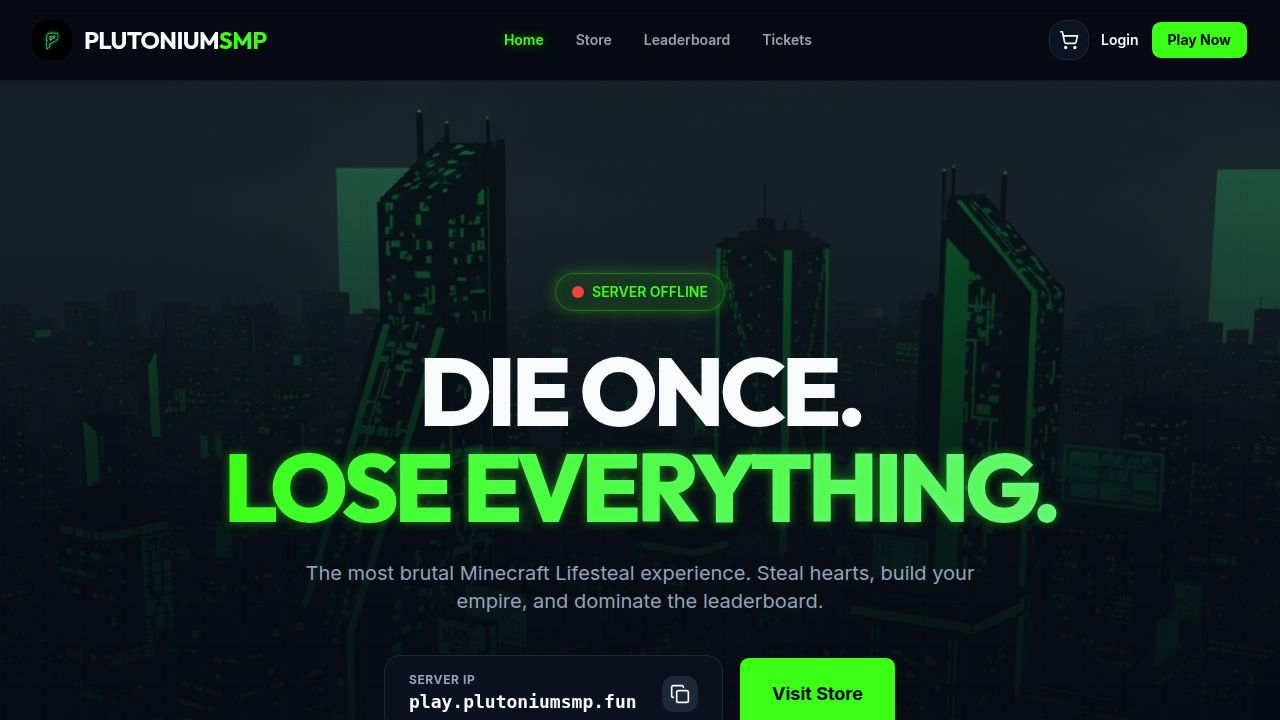
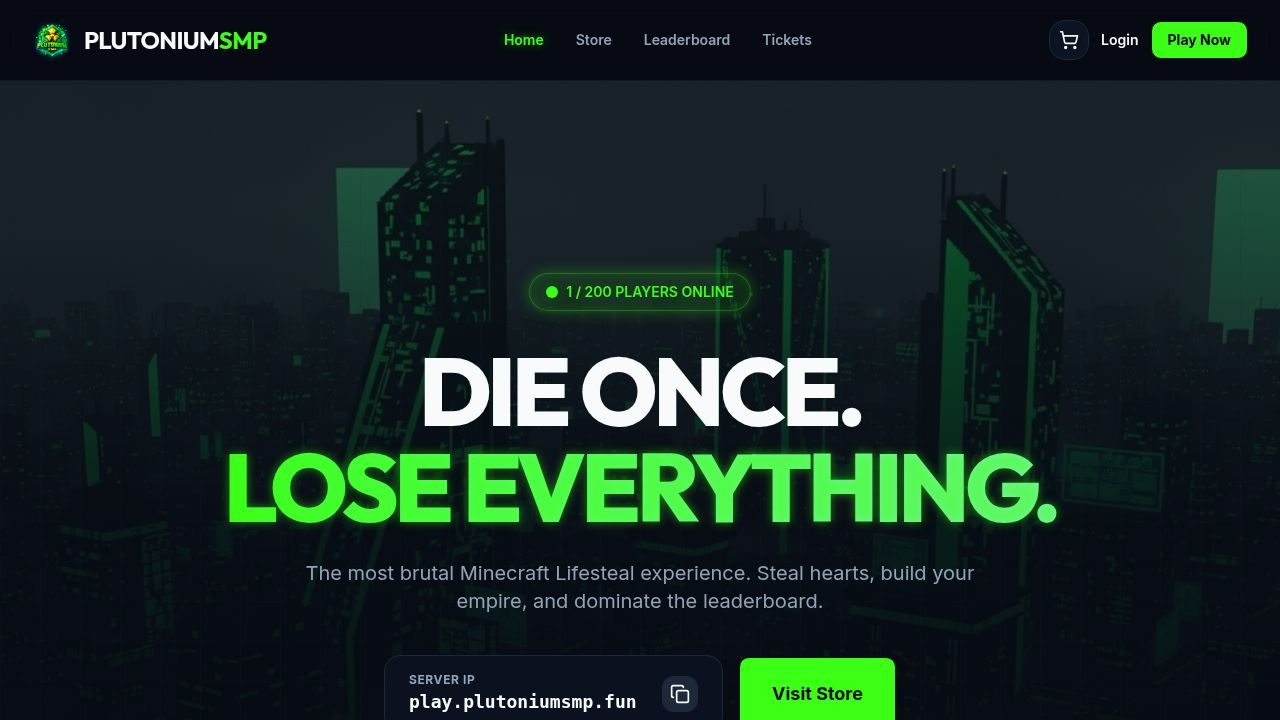
Add currency adjustment page and route for admins
Add `/admin/currency` route, integrate it into AdminLayout, and rewrite the AdminCurrency page to include user search, balance display, and adjustment functionality with audit trails.

Replit-Commit-Author: Agent
Replit-Commit-Session-Id: 015a0264-3c03-4c79-bc77-6b9e530fd9d2
Replit-Commit-Checkpoint-Type: full_checkpoint
Replit-Commit-Event-Id: 8c7f2d59-b31d-4fd6-961a-d6056bf425fc
Replit-Commit-Screenshot-Url: https://storage.googleapis.com/screenshot-production-us-central1/ad520857-e4b7-4b39-aedf-dcc1509203d8/015a0264-3c03-4c79-bc77-6b9e530fd9d2/bA10Y2w
Replit-Helium-Checkpoint-Created: true

Changed region(s): [[0.4062, 0.3667, 0.5938, 0.4583], [0.0, 0.0306, 0.0625, 0.0917]]

diff --git a/artifacts/plutonium-smp/src/pages/admin/currency.tsx b/artifacts/plutonium-smp/src/pages/admin/currency.tsx
@@ -1,44 +1,245 @@
 import { useState } from "react";
-import { useAdminAdjustCurrency } from "@workspace/api-client-react";
+import { useAdminGetUsers } from "@workspace/api-client-react";
 import { Button } from "@/components/ui/button";
 import { Input } from "@/components/ui/input";
-import { Card, CardContent, CardHeader, CardTitle } from "@/components/ui/card";
+import { Label } from "@/components/ui/label";
+import { Textarea } from "@/components/ui/textarea";
+import { Card, CardContent, CardHeader, CardTitle, CardDescription } from "@/components/ui/card";
+import { Avatar, AvatarFallback, AvatarImage } from "@/components/ui/avatar";
+import { Badge } from "@/components/ui/badge";
 import { useToast } from "@/hooks/use-toast";
+import { Search, Coins, Plus, Minus, User, CheckCircle } from "lucide-react";
 
 export default function AdminCurrency() {
-  const { mutate, isPending } = useAdminAdjustCurrency();
   const { toast } = useToast();
-  const [userId, setUserId] = useState("");
+  const [search, setSearch] = useState("");
+  const [selectedUser, setSelectedUser] = useState<any>(null);
   const [amount, setAmount] = useState("");
+  const [reason, setReason] = useState("");
+  const [loading, setLoading] = useState(false);
+  const [showSearch, setShowSearch] = useState(false);
 
-  const handleAdjust = (e: React.FormEvent) => {
+  const { data } = useAdminGetUsers({ search, limit: 10 });
+  const users = data?.users ?? [];
+
+  const getAuthHeaders = () => ({
+    "Content-Type": "application/json",
+    Authorization: `Bearer ${localStorage.getItem("plutonium_token") || ""}`,
+  });
+
+  const handleAdjust = async (e: React.FormEvent) => {
     e.preventDefault();
-    mutate({ data: { userId, amount: Number(amount) } }, {
-      onSuccess: () => {
-        toast({ title: "Currency updated successfully." });
-        setUserId("");
-        setAmount("");
-      }
-    });
+    if (!selectedUser) {
+      toast({ title: "Select a user first", variant: "destructive" });
+      return;
+    }
+    const parsed = Number(amount);
+    if (isNaN(parsed) || parsed === 0) {
+      toast({ title: "Enter a valid amount", variant: "destructive" });
+      return;
+    }
+    setLoading(true);
+    try {
+      const res = await fetch("/api/admin/currency/adjust", {
+        method: "POST",
+        headers: getAuthHeaders(),
+        body: JSON.stringify({ userId: selectedUser.id, amount: parsed, reason }),
+      });
+      const data = await res.json();
+      if (!res.ok) throw new Error(data.error || "Failed");
+      toast({ title: "Currency adjusted", description: data.message });
+      setAmount("");
+      setReason("");
+    } catch (err: any) {
+      toast({ title: "Adjustment failed", description: err.message, variant: "destructive" });
+    } finally {
+      setLoading(false);
+    }
   };
 
   return (
-    <div className="space-y-6 max-w-xl">
-      <h1 className="text-3xl font-bold">Currency Adjustment</h1>
-      <Card className="bg-card">
-        <CardHeader><CardTitle>Give / Take OWO Coins</CardTitle></CardHeader>
+    <div className="space-y-6 max-w-2xl">
+      <div>
+        <h1 className="text-3xl font-display font-bold text-foreground">Currency Adjustment</h1>
+        <p className="text-muted-foreground mt-1">Give or take OWO coins from any player's balance.</p>
+      </div>
+
+      <Card className="bg-card border-border shadow-md">
+        <CardHeader>
+          <CardTitle className="flex items-center gap-2">
+            <User className="w-5 h-5 text-primary" />
+            Select Player
+          </CardTitle>
+          <CardDescription>Search for a player to adjust their OWO balance.</CardDescription>
+        </CardHeader>
+        <CardContent className="space-y-3">
+          {selectedUser ? (
+            <div className="flex items-center gap-3 p-3 rounded-xl border border-primary/30 bg-primary/5">
+              <Avatar className="w-10 h-10 border border-border">
+                <AvatarImage src={selectedUser.discordAvatar || `https://api.dicebear.com/7.x/avataaars/svg?seed=${selectedUser.username}`} />
+                <AvatarFallback>{selectedUser.username[0]}</AvatarFallback>
+              </Avatar>
+              <div className="flex-1 min-w-0">
+                <div className="font-semibold text-sm">{selectedUser.username}</div>
+                <div className="text-xs text-muted-foreground">{selectedUser.email}</div>
+                <div className="text-xs text-primary font-medium mt-0.5">
+                  Current balance: <span className="font-bold">{(selectedUser.owoBalance ?? 0).toLocaleString()} OWO</span>
+                </div>
+              </div>
+              <Badge variant="outline" className="capitalize shrink-0">{selectedUser.role}</Badge>
+              <Button
+                variant="ghost"
+                size="sm"
+                onClick={() => { setSelectedUser(null); setShowSearch(false); }}
+                className="shrink-0 text-muted-foreground hover:text-foreground"
+              >
+                Change
+              </Button>
+            </div>
+          ) : (
+            <div className="space-y-2">
+              <div className="relative">
+                <Search className="absolute left-3 top-1/2 -translate-y-1/2 w-4 h-4 text-muted-foreground" />
+                <Input
+                  className="pl-9 bg-background"
+                  placeholder="Search by username or email..."
+                  value={search}
+                  onChange={(e) => { setSearch(e.target.value); setShowSearch(true); }}
+                  onFocus={() => setShowSearch(true)}
+                />
+              </div>
+              {showSearch && search.trim().length >= 2 && (
+                <div className="border border-border rounded-xl overflow-hidden bg-background shadow-lg">
+                  {users.length === 0 ? (
+                    <div className="p-4 text-center text-sm text-muted-foreground">No users found</div>
+                  ) : (
+                    users.map((u: any) => (
+                      <button
+                        key={u.id}
+                        type="button"
+                        onClick={() => {
+                          setSelectedUser(u);
+                          setSearch("");
+                          setShowSearch(false);
+                        }}
+                        className="w-full flex items-center gap-3 p-3 hover:bg-muted/30 transition-colors text-left border-b border-border last:border-0"
+                      >
+                        <Avatar className="w-8 h-8 border border-border shrink-0">
+                          <AvatarImage src={u.discordAvatar || `https://api.dicebear.com/7.x/avataaars/svg?seed=${u.username}`} />
+                          <AvatarFallback className="text-xs">{u.username[0]}</AvatarFallback>
+                        </Avatar>
+                        <div className="flex-1 min-w-0">
+                          <div className="font-medium text-sm">{u.username}</div>
+                          <div className="text-xs text-muted-foreground truncate">{u.email}</div>
+                        </div>
+                        <div className="text-xs text-primary font-semibold shrink-0">
+                          {(u.owoBalance ?? 0).toLocaleString()} OWO
+                        </div>
+                      </button>
+                    ))
+                  )}
+                </div>
+              )}
+            </div>
+          )}
+        </CardContent>
+      </Card>
+
+      <Card className="bg-card border-border shadow-md">
+        <CardHeader>
+          <CardTitle className="flex items-center gap-2">
+            <Coins className="w-5 h-5 text-primary" />
+            Adjust Balance
+          </CardTitle>
+          <CardDescription>
+            Use a positive number to give OWO coins, or a negative number to take them away.
+          </CardDescription>
+        </CardHeader>
         <CardContent>
           <form onSubmit={handleAdjust} className="space-y-4">
-            <div>
-              <label className="text-sm text-muted-foreground">User ID</label>
-              <Input required value={userId} onChange={e=>setUserId(e.target.value)} placeholder="UUID string" />
+            <div className="space-y-1.5">
+              <Label htmlFor="amount">Amount</Label>
+              <div className="flex gap-2">
+                <Button
+                  type="button"
+                  variant="outline"
+                  size="icon"
+                  onClick={() => setAmount(a => String(-(Math.abs(Number(a) || 0))))}
+                  title="Make negative (take)"
+                >
+                  <Minus className="w-4 h-4" />
+                </Button>
+                <Input
+                  id="amount"
+                  type="number"
+                  required
+                  value={amount}
+                  onChange={(e) => setAmount(e.target.value)}
+                  placeholder="e.g. 1000 to give, -500 to take"
+                  className="bg-background flex-1"
+                />
+                <Button
+                  type="button"
+                  variant="outline"
+                  size="icon"
+                  onClick={() => setAmount(a => String(Math.abs(Number(a) || 0)))}
+                  title="Make positive (give)"
+                >
+                  <Plus className="w-4 h-4" />
+                </Button>
+              </div>
+              {amount && !isNaN(Number(amount)) && Number(amount) !== 0 && (
+                <p className={`text-xs font-medium ${Number(amount) > 0 ? "text-green-400" : "text-red-400"}`}>
+                  {Number(amount) > 0
+                    ? `Will give +${Number(amount).toLocaleString()} OWO`
+                    : `Will take ${Math.abs(Number(amount)).toLocaleString()} OWO`}
+                  {selectedUser && ` → new balance: ${Math.max(0, (selectedUser.owoBalance ?? 0) + Number(amount)).toLocaleString()} OWO`}
+                </p>
+              )}
             </div>
-            <div>
-              <label className="text-sm text-muted-foreground">Amount (Use negative to take)</label>
-              <Input type="number" required value={amount} onChange={e=>setAmount(e.target.value)} placeholder="5000" />
+
+            <div className="space-y-1.5">
+              <Label htmlFor="reason">Reason (optional)</Label>
+              <Textarea
+                id="reason"
+                value={reason}
+                onChange={(e) => setReason(e.target.value)}
+                placeholder="e.g. Vote reward, Bug compensation, Event prize..."
+                className="bg-background resize-none"
+                rows={2}
+              />
             </div>
-            <Button type="submit" disabled={isPending} className="w-full">Confirm Adjustment</Button>
+
+            <Button
+              type="submit"
+              disabled={loading || !selectedUser || !amount || isNaN(Number(amount)) || Number(amount) === 0}
+              className="w-full gap-2"
+            >
+              <CheckCircle className="w-4 h-4" />
+              {loading ? "Adjusting..." : "Confirm Adjustment"}
+            </Button>
           </form>
+        </CardContent>
+      </Card>
+
+      <Card className="bg-card border-border shadow-md">
+        <CardHeader>
+          <CardTitle className="text-sm font-semibold text-muted-foreground">Quick Presets</CardTitle>
+        </CardHeader>
+        <CardContent>
+          <div className="flex flex-wrap gap-2">
+            {[500, 1000, 2500, 5000, 10000, -500, -1000].map((preset) => (
+              <Button
+                key={preset}
+                variant="outline"
+                size="sm"
+                onClick={() => setAmount(String(preset))}
+                className={`text-xs ${preset < 0 ? "border-red-500/30 text-red-400 hover:bg-red-500/10" : "border-primary/30 text-primary hover:bg-primary/10"}`}
+              >
+                {preset > 0 ? "+" : ""}{preset.toLocaleString()} OWO
+              </Button>
+            ))}
+          </div>
         </CardContent>
       </Card>
     </div>

diff --git a/artifacts/plutonium-smp/src/App.tsx b/artifacts/plutonium-smp/src/App.tsx
@@ -31,6 +31,8 @@ import AdminAnnouncements from "@/pages/admin/announcements";
 import AdminCoupons from "@/pages/admin/coupons";
 import AdminLeaderboard from "@/pages/admin/leaderboard";
 import AdminSettings from "@/pages/admin/settings";
+import AdminRoles from "@/pages/admin/roles";
+import AdminCurrency from "@/pages/admin/currency";
 
 import NotFound from "@/pages/not-found";
 
@@ -62,6 +64,8 @@ function Router() {
       <Route path="/admin/coupons">{() => <AdminLayout><AdminCoupons /></AdminLayout>}</Route>
       <Route path="/admin/leaderboard">{() => <AdminLayout><AdminLeaderboard /></AdminLayout>}</Route>
       <Route path="/admin/settings">{() => <AdminLayout><AdminSettings /></AdminLayout>}</Route>
+      <Route path="/admin/roles">{() => <AdminLayout><AdminRoles /></AdminLayout>}</Route>
+      <Route path="/admin/currency">{() => <AdminLayout><AdminCurrency /></AdminLayout>}</Route>
 
       <Route component={NotFound} />
     </Switch>

diff --git a/artifacts/plutonium-smp/src/components/layout/AdminLayout.tsx b/artifacts/plutonium-smp/src/components/layout/AdminLayout.tsx
@@ -3,7 +3,7 @@ import { Link, useLocation } from "wouter";
 import { useAuth } from "@/lib/auth";
 import {
   LayoutDashboard, Users, ShoppingBag, Ticket, CreditCard,
-  Megaphone, Tag, ShieldCheck, Trophy, Settings, Shield,
+  Megaphone, Tag, ShieldCheck, Trophy, Settings, Shield, Coins,
 } from "lucide-react";
 
 const ADMIN_ROLES = ["admin", "owner"] as const;
@@ -40,6 +40,7 @@ export function AdminLayout({ children }: { children: ReactNode }) {
     { name: "Purchases",    href: "/admin/purchases",      icon: CreditCard,      adminOnly: true  },
     { name: "Announcements",href: "/admin/announcements",  icon: Megaphone,       adminOnly: false },
     { name: "Coupons",      href: "/admin/coupons",        icon: Tag,             adminOnly: false },
+    { name: "Currency",     href: "/admin/currency",       icon: Coins,           adminOnly: true  },
     { name: "Custom Roles", href: "/admin/roles",          icon: Shield,          adminOnly: true  },
     { name: "Settings",     href: "/admin/settings",       icon: Settings,        adminOnly: true  },
   ];

diff --git a/replit.md b/replit.md
@@ -52,6 +52,8 @@ artifacts-monorepo/
 - `/admin/purchases` — Purchase logs
 - `/admin/announcements` — Announcement management
 - `/admin/coupons` — Coupon/discount management
+- `/admin/currency` — OWO coin balance adjustment (user search + presets)
+- `/admin/roles` — Custom role management
 
 ## Default Admin Account
 